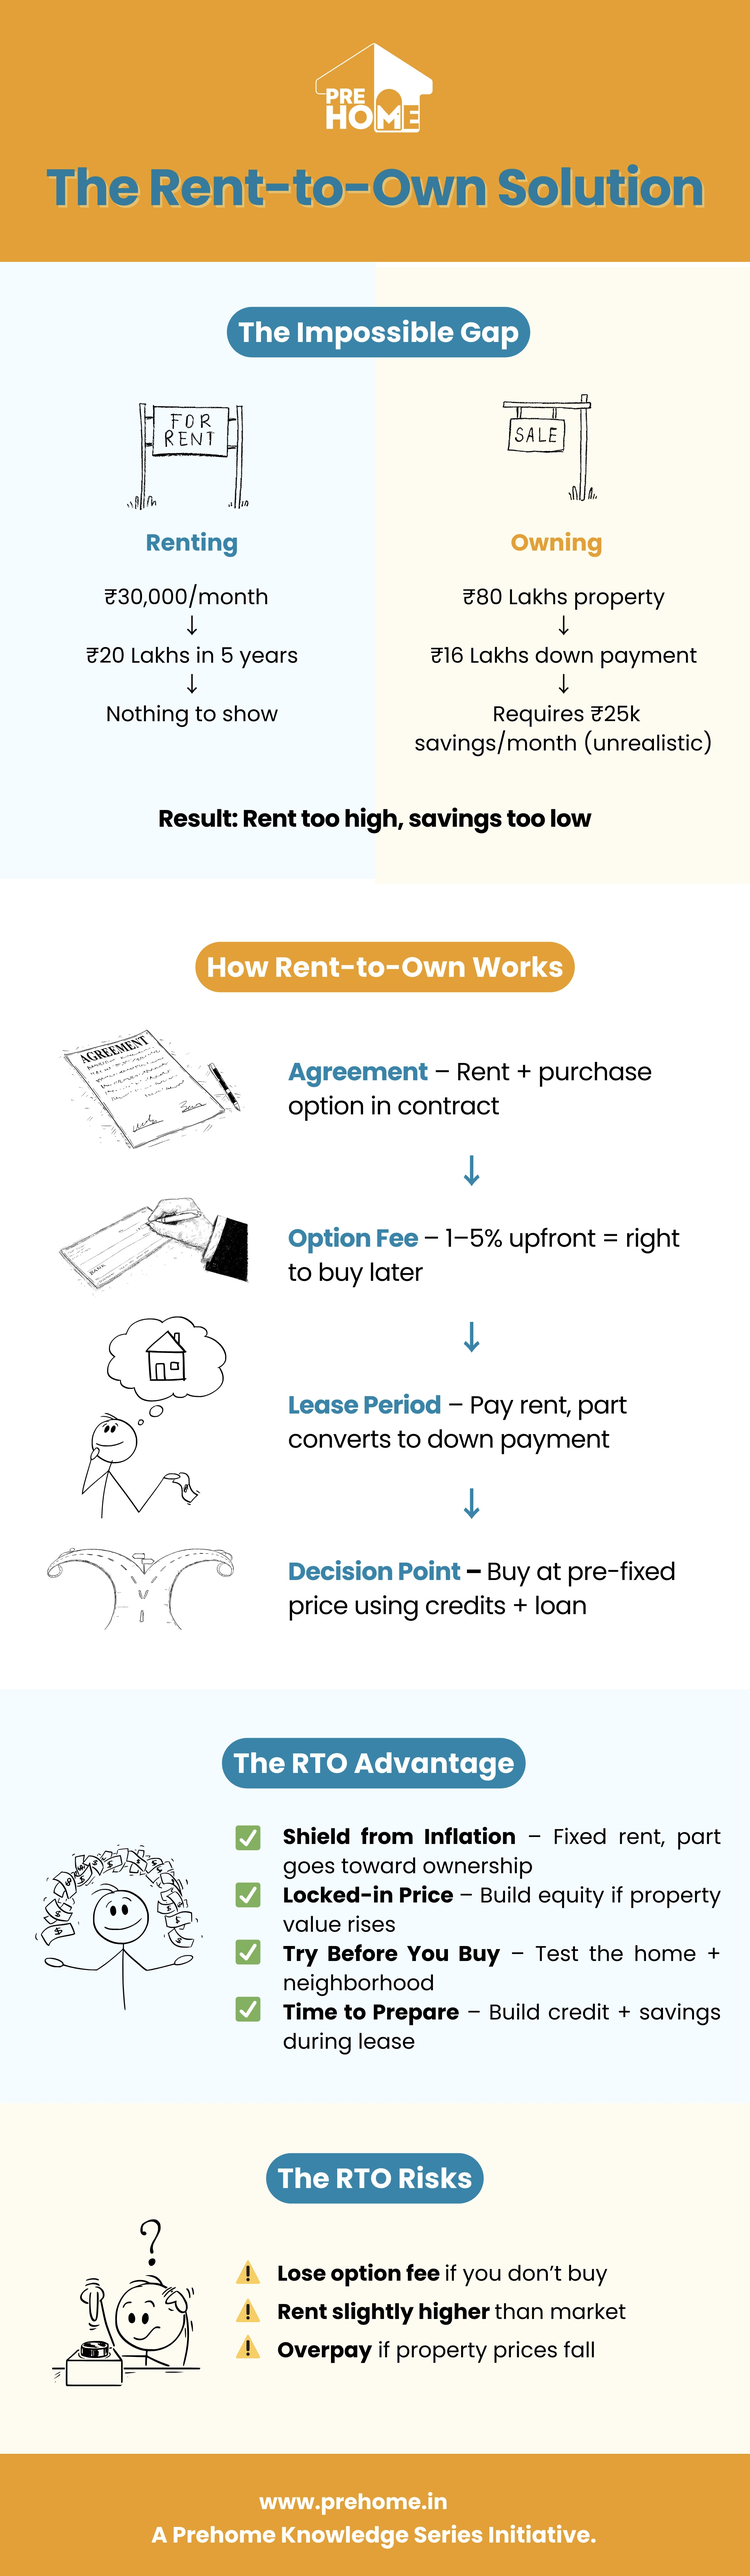
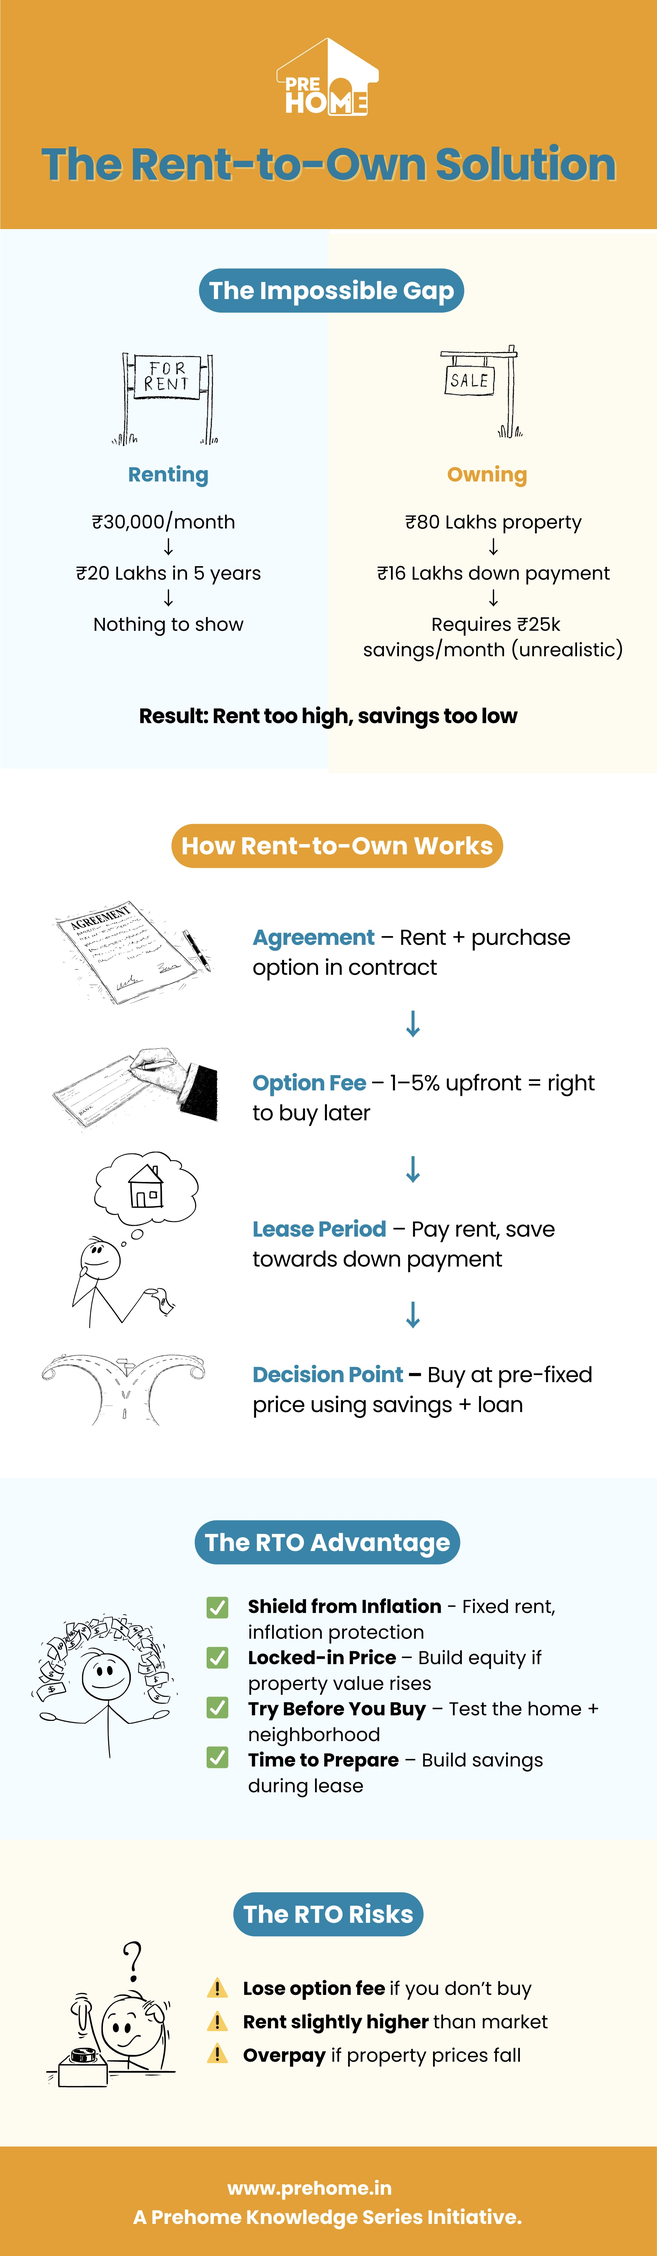
work done

diff --git a/frontend/blogs/Making-an-Informed-Housing-Decision.html b/frontend/blogs/Making-an-Informed-Housing-Decision.html
@@ -345,8 +345,8 @@
                             <ul>
                                  <li><b>The Agreement:</b> You sign a legal contract with the developer or seller. This contract includes two main parts: a standard rental agreement and a purchase option clause. It states the lease term (usually 1-3 years), the monthly rent, and the set purchase price for the home.</li>
                                 <li><b>The Option Fee:</b> You pay a non-refundable "option fee" upfront (generally 1-5% of the property value). This fee is separate from the rent and gives you the exclusive right to buy the home at the end of the term.</li>
-                                <li><b>The Lease Period:</b> You live in the home and pay rent as a tenant. Part of this monthly rent is counted as a "rent credit" that goes toward your down payment. This setup helps turn your rent into a kind of forced savings.</li>
-                                <li><b>The Decision Point:</b> At the end of the lease term, you can choose to buy the property at the agreed-upon price. You can then secure a home loan for the remaining amount, using your saved rent credits for the down payment.</li>                           </ul>
+                                <li><b>The Lease Period:</b> You live in the home and pay a premium rent as a tenant. Completing the rent obligations on time allows for you to build for your down payment during the decision point.This setup helps turn your rent into a kind of forced savings.</li>
+                                <li><b>The Decision Point:</b>At the end of the lease term, you can choose to buy the property at the agreed-upon price. Now that you are down payment ready, you can then secure a home loan for the remaining amount</li>                           </ul>
                         </li>
                        
 
@@ -362,7 +362,7 @@
                          <ol>
                         <li>
                             <ul><b>The Pros (The RTO Advantage)</b>
-                              <li><b>Shield Against Inflation:</b>Your monthly payments are fixed, providing protection against the rental inflation we discussed earlier. A portion of your rent is not just an expense; it’s an investment in your future.</li>
+                              <li><b>Shield Against Inflation:</b>Your monthly payments are fixed, providing protection against the rental inflation we discussed earlier.Your rent is not just an expense; it’s an investment in your future.</li>
                                 <li><b>The Locked-in Price:</b>The biggest benefit is protection from future price increases. If your home’s value goes up by 20% during your lease, you can still buy it at the original, lower price. This gives you immediate equity.</li>
                                 <li><b>Try Before You Buy:</b>RTO lets you "test drive" the home and neighborhood before making a long-term financial commitment. You can look for structural issues, evaluate the commute, and ensure it suits your family's needs.</li>
                                 <li><b>Time to Build Finances:</b>:If your credit score is low or you haven’t saved enough for a full down payment, the RTO period allows you time to improve your financial situation and qualify for a home loan.</li>                         </ul>
@@ -376,8 +376,8 @@
                             <ol>
                         <li>
                             <ul><b>The Cons (The RTO Risks)</b>
-                            <li><b>Loss of Upfront Fee:</b>If you choose not to buy the home or can't secure a home loan at the end of the term, you lose the non-refundable option fee and any rent credits you’ve built up.</li>
-                                <li><b>Potentially Higher Rent:</b>The monthly rent in an RTO agreement is often slightly higher than the market rate to cover the rent credits.</li>
+                            <li><b>Loss of Upfront Fee:</b>If you choose not to buy the home or can't secure a home loan at the end of the term, you lose the non-refundable option fee</li>
+                                <li><b>Potentially Higher Rent:</b>The monthly rent in an RTO agreement is often slightly higher than the market rate.</li>
                                 <li><b>Market Risk:</b>While RTO protects you from rising prices, you might end up overpaying if home values drop below the agreed price.</li>
                                 <li><b>Maintenance Liability:</b> Some RTO agreements place the responsibility for maintenance and repairs on the tenant, leading to unexpected costs.</li>
                         </li>
